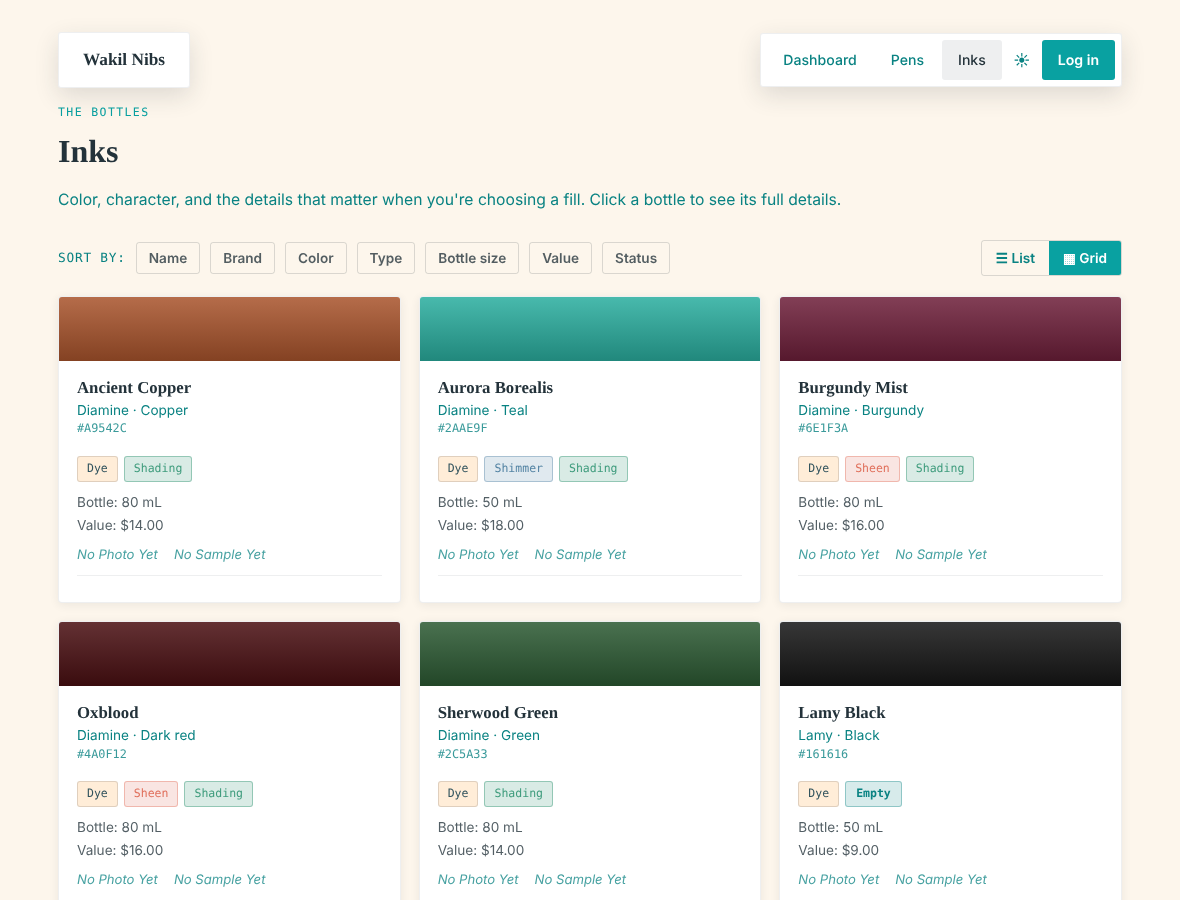
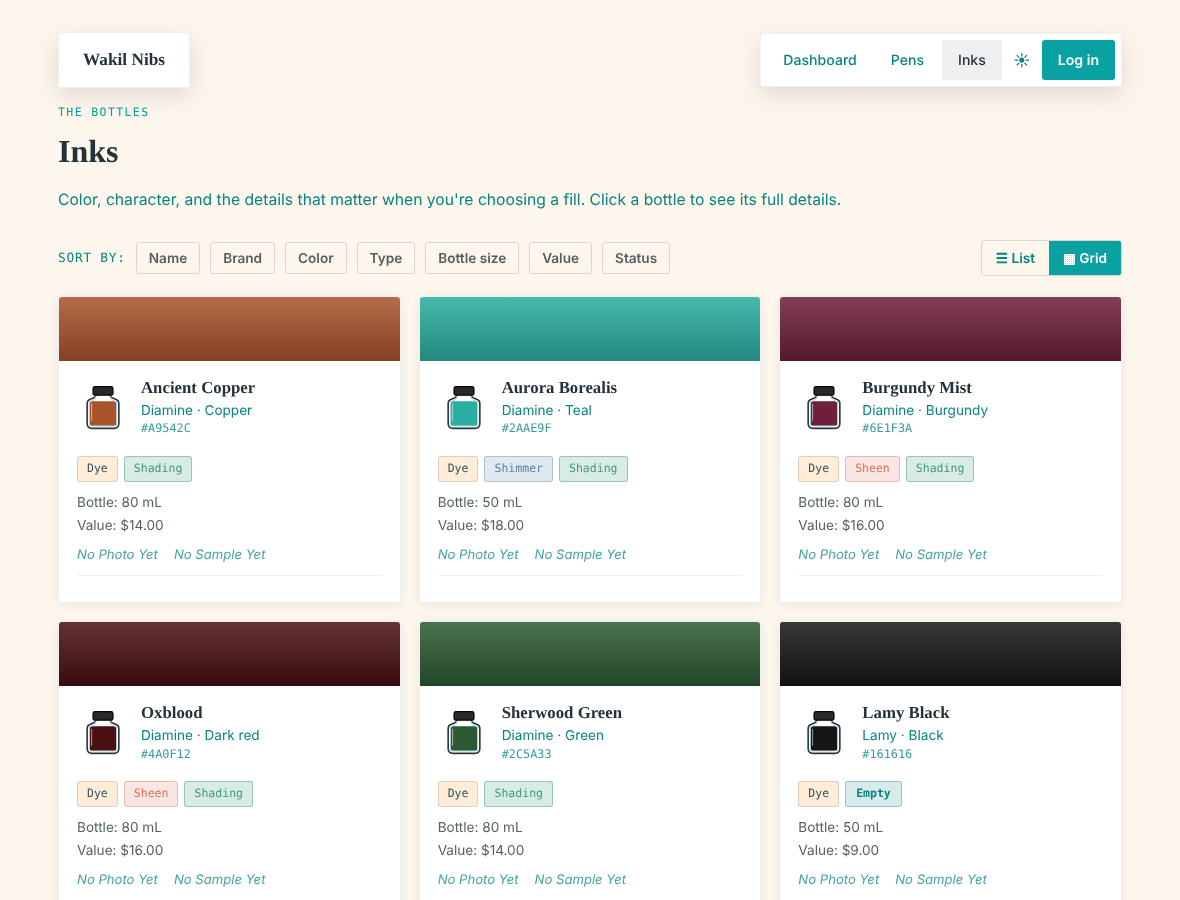
Version Update
Added ink bottle icons to ink collection page.

diff --git a/templates/inks.html b/templates/inks.html
@@ -117,9 +117,12 @@
       </div>
       {% endif %}
       <div class="ink-card-title-block">
-        <h3>{{ ink['name'] }}</h3>
-        <div class="ink-brand">{{ ink['brand'] }}{% if ink['color_name'] %} &middot; {{ ink['color_name'] }}{% endif %}</div>
-        <div class="hex-tag">{{ ink['color_hex']|upper }}</div>
+        {{ ink_bottle(ink['color_hex'], 'ink-card-bottle') }}
+        <div>
+          <h3>{{ ink['name'] }}</h3>
+          <div class="ink-brand">{{ ink['brand'] }}{% if ink['color_name'] %} &middot; {{ ink['color_name'] }}{% endif %}</div>
+          <div class="hex-tag">{{ ink['color_hex']|upper }}</div>
+        </div>
       </div>
     </a>
     <div class="ink-card-body">

diff --git a/static/css/style.css b/static/css/style.css
@@ -763,7 +763,8 @@ h1 .status-badge {
 
 .ink-card-body { padding: 16px 18px 18px; display: flex; flex-direction: column; gap: 10px; flex: 1; }
 
-.ink-card-title-block { padding: 14px 18px 0; }
+.ink-card-title-block { padding: 14px 18px 0; display: flex; gap: 12px; align-items: center; }
+.ink-card-title-block .ink-card-bottle { width: 52px; height: 52px; margin-top: 0; }
 
 .ink-card h3 { font-size: 1.05rem; margin-bottom: 0; }
 .ink-card .ink-brand { font-size: 0.85rem; color: var(--text-secondary); }
